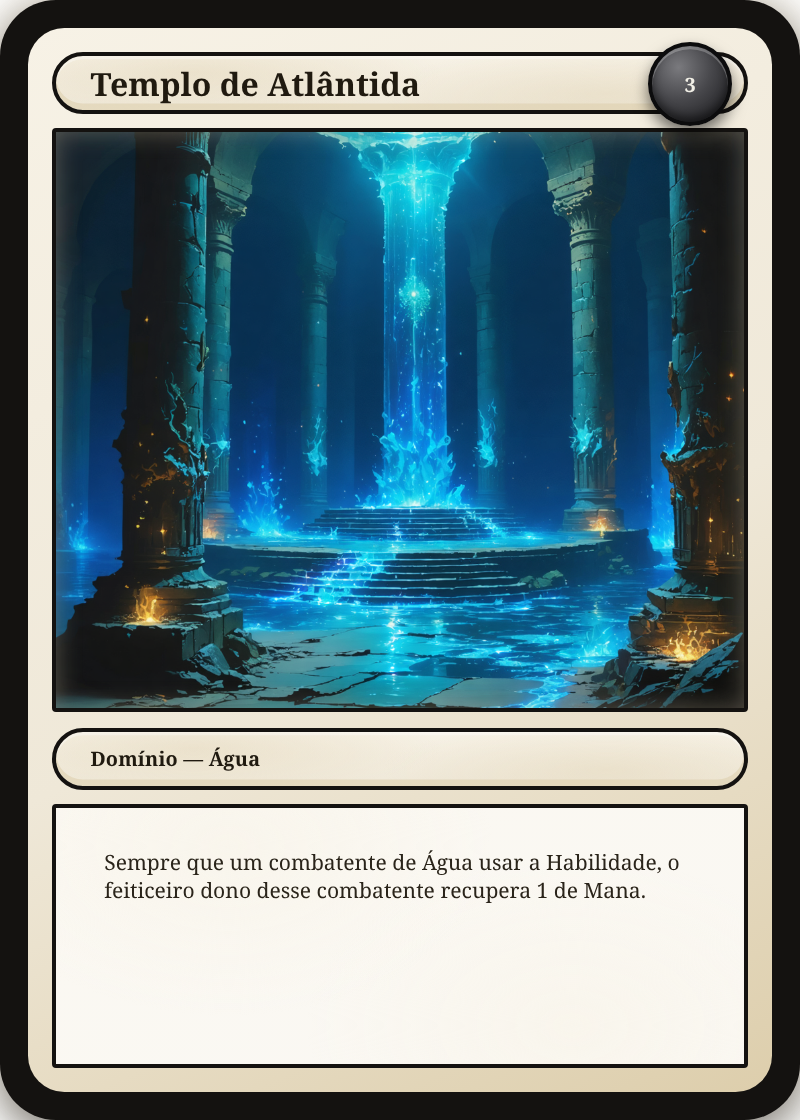
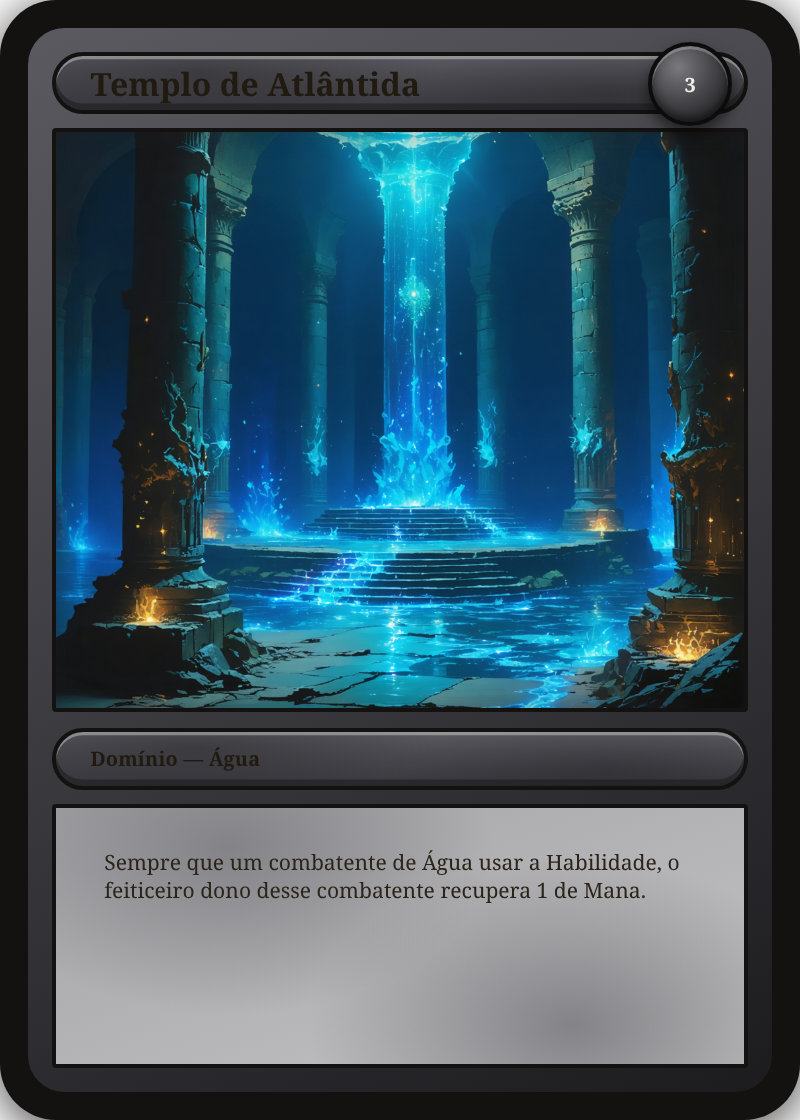
Cartas de Domínio ficam cinza-escuro em vez do pergaminho neutro padrão
scripts/renderizar_cartas.py: PALETA_TIPO ganha uma entrada "Domínio"
(antes ausente de propósito, paleta_da_carta caía no fallback None ->
pergaminho claro padrão do template). Paleta em tom de carvão
(#5a5a60 -> #38383d -> #1c1c1f -> #000000) — testei uma primeira
versão mais clara (#d6d6da...) que ainda lia como cinza CLARO/prateado
no frame renderizado (a maior parte do card__body é o gradiente c1->c2,
e cinza sem matiz de cor não "pop" como um verde/roxo claro pop mesmo
pastel); escureci todos os 4 tons até o frame ficar mesmo cinza-escuro
sem comprometer a legibilidade do texto (a barra de nome e a caixa de
texto já misturam bastante branco na própria fórmula do CSS,
independente da paleta).

As 10 cartas de Domínio foram re-renderizadas; nenhuma outra carta
mudou (confirmado via git status).

Claude-Session: https://claude.ai/code/session_011dvRufLat9ksNCjicw8Mae

diff --git a/scripts/renderizar_cartas.py b/scripts/renderizar_cartas.py
@@ -2,7 +2,7 @@
 """Renderiza uma carta PNG por linha do CSV, usando templates/card.css.
 Usa a arte em arts/<Nome>.png quando existe; senao deixa a janela de arte em branco.
 Cor da carta segue o elemento (Herói/Monstro), ou o tipo (Encantamento = verde,
-Maldição = roxo profundo); Domínios ficam no pergaminho neutro padrao.
+Maldição = roxo profundo, Domínio = cinza-escuro).
 """
 import os
 import shutil
@@ -28,6 +28,7 @@ PALETA_ELEMENTO = {
 PALETA_TIPO = {
     "Encantamento": ("#d7f6e2", "#5fce8c", "#1f8c53", "#0c4128"),  # verde
     "Maldição": ("#e6d9f6", "#9a5ed1", "#5a1e93", "#290c49"),      # roxo profundo
+    "Domínio": ("#5a5a60", "#38383d", "#1c1c1f", "#000000"),       # cinza-escuro
 }
 
 PAGE_STYLE = """
@@ -90,7 +91,7 @@ def paleta_da_carta(row):
     tipo = row["Tipo"]
     if tipo in COM_STATS:
         return PALETA_ELEMENTO.get(row["Elemento"])
-    return PALETA_TIPO.get(tipo)  # None para Domínio -> pergaminho neutro padrao
+    return PALETA_TIPO.get(tipo)
 
 
 def build_html(row, css, art_path):
